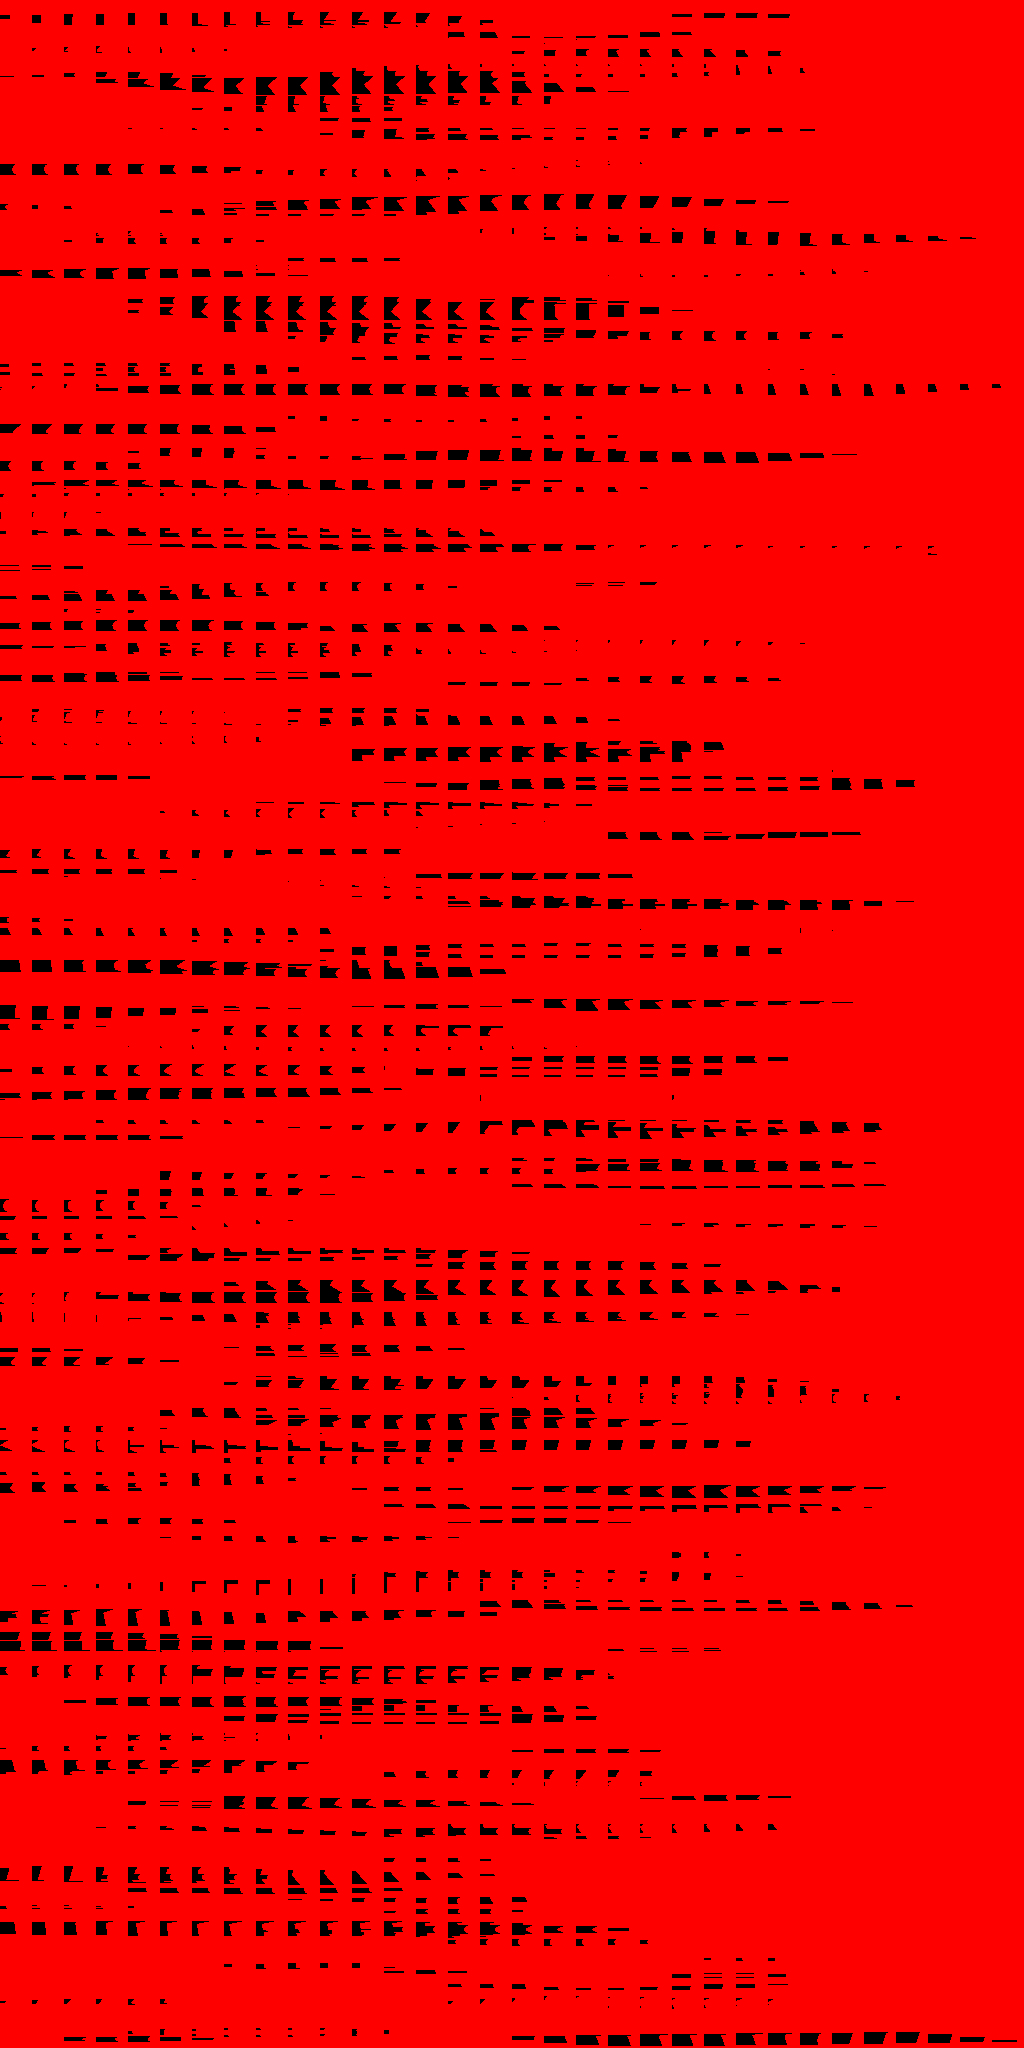
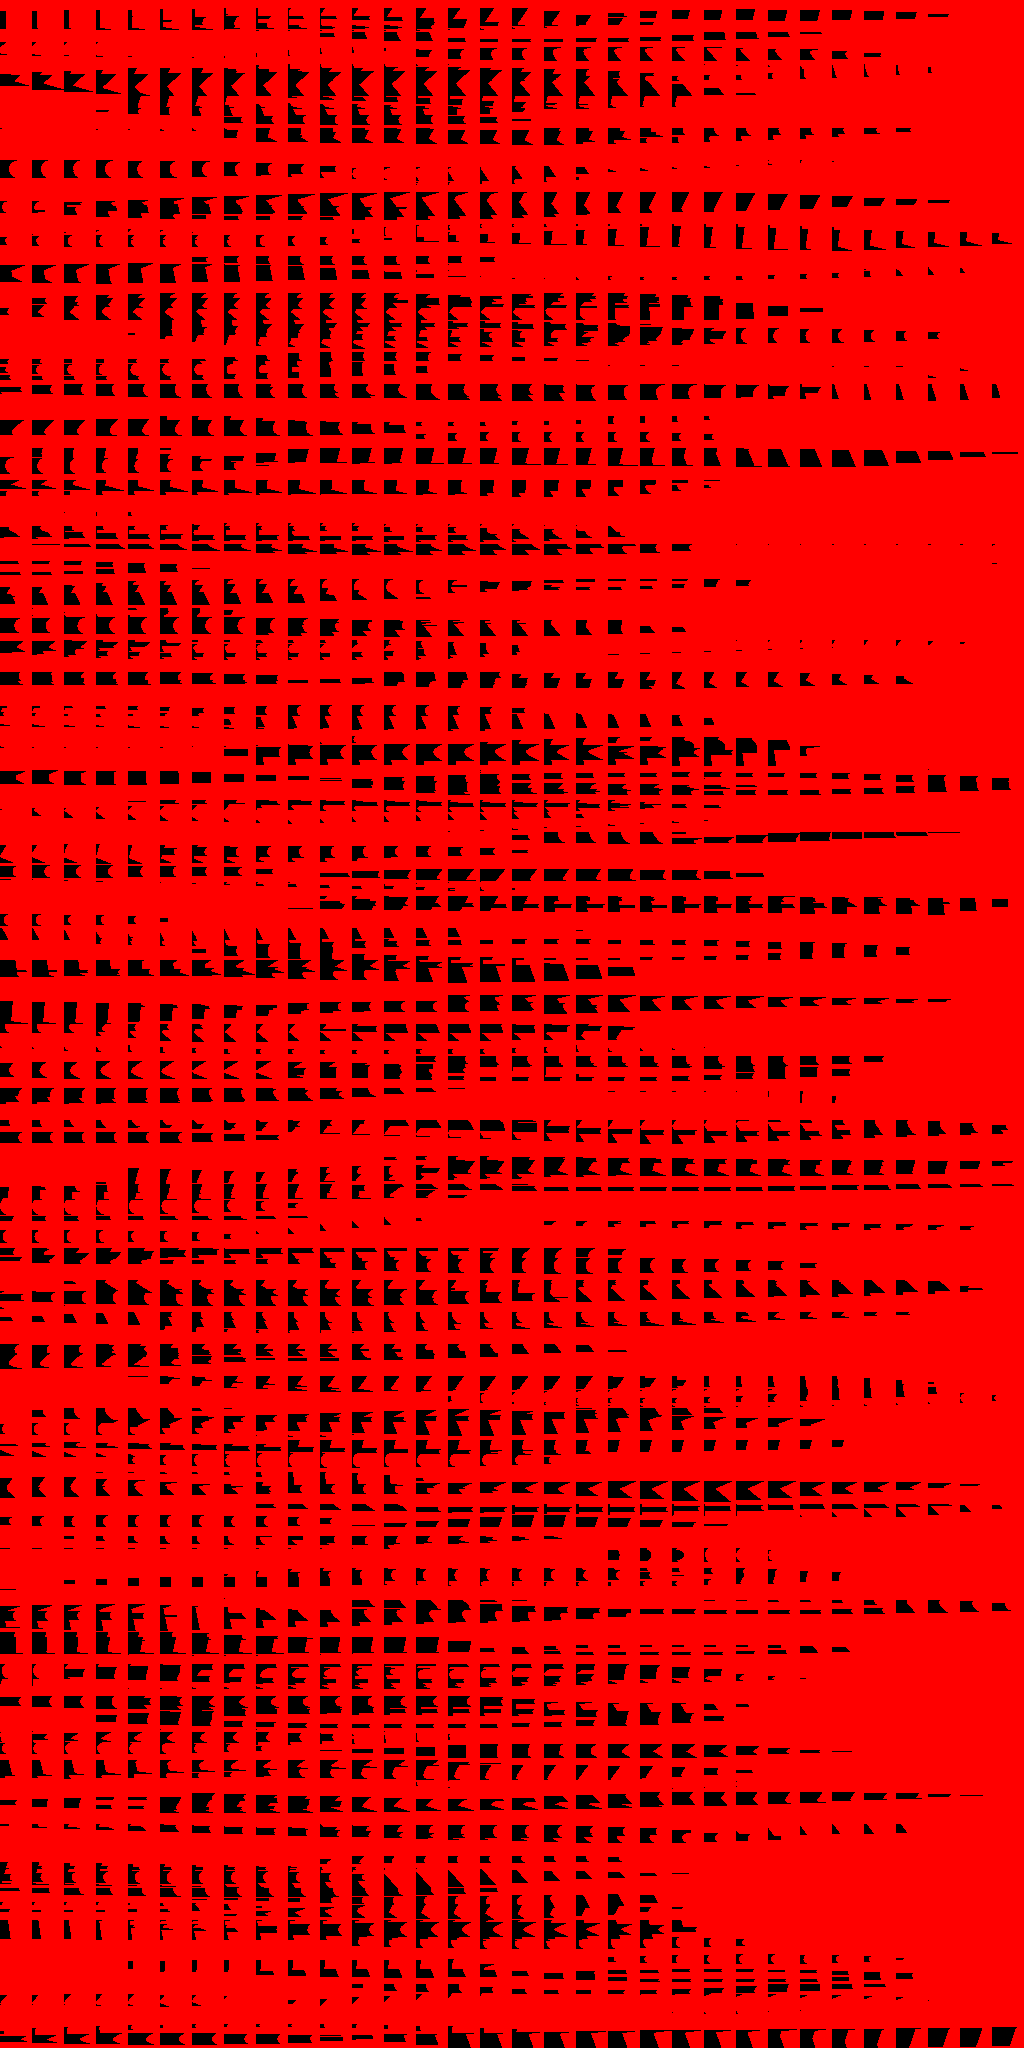
Fixed model. Exports to .exr

Changed region(s): [[0.0, 0.0, 1.0, 1.0], [0.75, 0.2188, 0.9375, 0.25]]

diff --git a/rtdlgi_bk.py b/rtdlgi_bk.py
@@ -4,10 +4,11 @@ import math
 import numpy
 from torch.autograd import Variable
 
+
 GI_RESOLUTION = 32
 RAYS_PER_AXIS = 16
-TRAINING_SAMPLES = 1 # 64
-TRAINING_BATCHES = 1 # 8
+TRAINING_SAMPLES = 64 # 64
+TRAINING_BATCHES = 8 # 1
 
 # training data
 inputs = torch.zeros(RAYS_PER_AXIS**3, TRAINING_SAMPLES*TRAINING_BATCHES).half()
@@ -39,8 +40,8 @@ def inpInit(i, j):
 
 inputsXYZ = torch.FloatTensor([[inpInit(i, j) for i in range(GI_RESOLUTION ** 3)] for j in range(3)]).half()
 
-neuronsCount_Dist_L0 = 1024
-neuronsCount_GI = 64
+neuronsCount_Dist_L0 = 128
+neuronsCount_GI = 48
 
 # Train NN weights
 # neuronsCount * 3
@@ -49,21 +50,22 @@ neuronsCount_GI = 64
 # neuronsCount * 1
 # 1 * neuronsCount
 # 1 * 1
+reducer = 4
 
-neuronsCount_Dist_w1 = neuronsCount_GI * 3
-neuronsCount_Dist_b1 = neuronsCount_GI
-neuronsCount_Dist_w2 = neuronsCount_GI * 32
-neuronsCount_Dist_b2 = neuronsCount_GI
-neuronsCount_Dist_w3 = neuronsCount_GI
+neuronsCount_Dist_w1 = neuronsCount_GI // reducer * 3
+neuronsCount_Dist_b1 = neuronsCount_GI // reducer
+neuronsCount_Dist_w2 = neuronsCount_GI // reducer * neuronsCount_GI // reducer
+neuronsCount_Dist_b2 = neuronsCount_GI // reducer
+neuronsCount_Dist_w3 = neuronsCount_GI // reducer
 neuronsCount_Dist_b3 = 1
 
-alpha = 0.02
-beta1 = 0.02
-beta2 = 0.0001
-tanhMul = 1.3
+alpha = 0.03
+beta1 = alpha
+beta2 = 0.001
+tanhMul = 1.05
 acc = 0.1
-rng = 0.1
-steps = 5000
+rng = 1.0
+steps = 20000
 pr = 10
 
 data_x_Dist = Variable(torch.HalfTensor(inputs).cuda())
@@ -72,31 +74,43 @@ data_y_GI = Variable(outputs.cuda())
 
 torch.manual_seed(4221)
 
-WEIGHTS1 = Variable(torch.HalfTensor(neuronsCount_Dist_L0, RAYS_PER_AXIS**3).cuda().uniform_(-rng,rng), requires_grad=True)
-BIAS1 = Variable(torch.HalfTensor(neuronsCount_Dist_L0, 1).cuda().uniform_(-rng,rng), requires_grad=True)
+WEIGHTS1 = Variable(torch.HalfTensor(neuronsCount_Dist_L0, RAYS_PER_AXIS**3).cuda().uniform_(-rng, rng), requires_grad=True)
+BIAS1 = Variable(torch.HalfTensor(neuronsCount_Dist_L0, 1).cuda().uniform_(-rng, rng), requires_grad=True)
 
-WEIGHTS2_w1 = Variable(torch.HalfTensor(neuronsCount_GI * 3, neuronsCount_Dist_L0).cuda().uniform_(-rng,rng), requires_grad=True)
-BIAS2_w1 = Variable(torch.HalfTensor(neuronsCount_GI * 3, 1).cuda().uniform_(-rng,rng), requires_grad=True)
+WEIGHTS2_w1 = Variable(torch.HalfTensor(neuronsCount_Dist_w1, neuronsCount_Dist_L0).cuda().uniform_(-rng, rng), requires_grad=True)
+BIAS2_w1 = Variable(torch.HalfTensor(neuronsCount_Dist_w1, 1).cuda().uniform_(-rng, rng), requires_grad=True)
+WEIGHTS3_w1 = Variable(torch.HalfTensor(neuronsCount_GI * 3, neuronsCount_Dist_w1).cuda().uniform_(-rng, rng), requires_grad=True)
+BIAS3_w1 = Variable(torch.HalfTensor(neuronsCount_GI * 3, 1).cuda().uniform_(-rng, rng), requires_grad=True)
 
-WEIGHTS2_b1 = Variable(torch.HalfTensor(neuronsCount_GI * 1, neuronsCount_Dist_L0).cuda().uniform_(-rng,rng), requires_grad=True)
-BIAS2_b1 = Variable(torch.HalfTensor(neuronsCount_GI * 1, 1).cuda().uniform_(-rng,rng), requires_grad=True)
+WEIGHTS2_b1 = Variable(torch.HalfTensor(neuronsCount_Dist_b1, neuronsCount_Dist_L0).cuda().uniform_(-rng, rng), requires_grad=True)
+BIAS2_b1 = Variable(torch.HalfTensor(neuronsCount_Dist_b1, 1).cuda().uniform_(-rng, rng), requires_grad=True)
+WEIGHTS3_b1 = Variable(torch.HalfTensor(neuronsCount_GI * 1, neuronsCount_Dist_b1).cuda().uniform_(-rng, rng), requires_grad=True)
+BIAS3_b1 = Variable(torch.HalfTensor(neuronsCount_GI * 1, 1).cuda().uniform_(-rng, rng), requires_grad=True)
 
-WEIGHTS2_w2 = Variable(torch.HalfTensor(neuronsCount_GI * neuronsCount_GI, neuronsCount_Dist_L0).cuda().uniform_(-rng,rng), requires_grad=True)
-BIAS2_w2 = Variable(torch.HalfTensor(neuronsCount_GI * neuronsCount_GI, 1).cuda().uniform_(-rng,rng), requires_grad=True)
+WEIGHTS2_w2 = Variable(torch.HalfTensor(neuronsCount_Dist_w2, neuronsCount_Dist_L0).cuda().uniform_(-rng, rng), requires_grad=True)
+BIAS2_w2 = Variable(torch.HalfTensor(neuronsCount_Dist_w2, 1).cuda().uniform_(-rng, rng), requires_grad=True)
+WEIGHTS3_w2 = Variable(torch.HalfTensor(neuronsCount_GI * neuronsCount_GI, neuronsCount_Dist_w2).cuda().uniform_(-rng, rng), requires_grad=True)
+BIAS3_w2 = Variable(torch.HalfTensor(neuronsCount_GI * neuronsCount_GI, 1).cuda().uniform_(-rng, rng), requires_grad=True)
 
-WEIGHTS2_b2 = Variable(torch.HalfTensor(neuronsCount_GI * 1, neuronsCount_Dist_L0).cuda().uniform_(-rng,rng), requires_grad=True)
-BIAS2_b2 = Variable(torch.HalfTensor(neuronsCount_GI * 1, 1).cuda().uniform_(-rng,rng), requires_grad=True)
+WEIGHTS2_b2 = Variable(torch.HalfTensor(neuronsCount_Dist_b2, neuronsCount_Dist_L0).cuda().uniform_(-rng, rng), requires_grad=True)
+BIAS2_b2 = Variable(torch.HalfTensor(neuronsCount_Dist_b2, 1).cuda().uniform_(-rng, rng), requires_grad=True)
+WEIGHTS3_b2 = Variable(torch.HalfTensor(neuronsCount_GI * 1, neuronsCount_Dist_b2).cuda().uniform_(-rng, rng), requires_grad=True)
+BIAS3_b2 = Variable(torch.HalfTensor(neuronsCount_GI * 1, 1).cuda().uniform_(-rng, rng), requires_grad=True)
 
-WEIGHTS2_w3 = Variable(torch.HalfTensor(1 * neuronsCount_GI, neuronsCount_Dist_L0).cuda().uniform_(-rng,rng), requires_grad=True)
-BIAS2_w3 = Variable(torch.HalfTensor(1 * neuronsCount_GI, 1).cuda().uniform_(-rng,rng), requires_grad=True)
+WEIGHTS2_w3 = Variable(torch.HalfTensor(neuronsCount_Dist_w3, neuronsCount_Dist_L0).cuda().uniform_(-rng, rng), requires_grad=True)
+BIAS2_w3 = Variable(torch.HalfTensor(neuronsCount_Dist_w3, 1).cuda().uniform_(-rng, rng), requires_grad=True)
+WEIGHTS3_w3 = Variable(torch.HalfTensor(1 * neuronsCount_GI, neuronsCount_Dist_w3).cuda().uniform_(-rng, rng), requires_grad=True)
+BIAS3_w3 = Variable(torch.HalfTensor(1 * neuronsCount_GI, 1).cuda().uniform_(-rng, rng), requires_grad=True)
 
-WEIGHTS2_b3 = Variable(torch.HalfTensor(1, neuronsCount_Dist_L0).cuda().uniform_(-rng,rng), requires_grad=True)
-BIAS2_b3 = Variable(torch.HalfTensor(1, 1).cuda().uniform_(-rng,rng), requires_grad=True)
+WEIGHTS2_b3 = Variable(torch.HalfTensor(neuronsCount_Dist_b3, neuronsCount_Dist_L0).cuda().uniform_(-rng, rng), requires_grad=True)
+BIAS2_b3 = Variable(torch.HalfTensor(neuronsCount_Dist_b3, 1).cuda().uniform_(-rng, rng), requires_grad=True)
+WEIGHTS3_b3 = Variable(torch.HalfTensor(1, neuronsCount_Dist_b3).cuda().uniform_(-rng, rng), requires_grad=True)
+BIAS3_b3 = Variable(torch.HalfTensor(1, 1).cuda().uniform_(-rng, rng), requires_grad=True)
 
 
 def fc(weights, bias, inp):
     h1 = weights @ inp + bias
-    a1 = torch.tanh_(h1)
+    a1 = torch.tanh(h1)
 
     return a1
 
@@ -119,19 +133,20 @@ def Forward(data_inp, w1, b1, w2, b2, w3, b3):
     return y
 
 
-def Forward_FCL(data_inp, w1, b1, w2, b2):
+def Forward_FCL(data_inp, w1, b1, w2, b2, w3, b3):
     n1 = fc(w1, b1, data_inp)
-    y = fcL(w2, b2, n1)
+    n2 = fc(w2, b2, n1)
+    y = fcL(w3, b3, n2)
 
     return y
 
 def Forward_N2(dat_x):
-    w1_1 = Forward_FCL(dat_x.resize(RAYS_PER_AXIS**3, 1), WEIGHTS1, BIAS1, WEIGHTS2_w1, BIAS2_w1).resize(neuronsCount_GI, 3)
-    b1_1 = Forward_FCL(dat_x.resize(RAYS_PER_AXIS**3, 1), WEIGHTS1, BIAS1, WEIGHTS2_b1, BIAS2_b1).resize(neuronsCount_GI, 1)
-    w2_1 = Forward_FCL(dat_x.resize(RAYS_PER_AXIS**3, 1), WEIGHTS1, BIAS1, WEIGHTS2_w2, BIAS2_w2).resize(neuronsCount_GI, neuronsCount_GI)
-    b2_1 = Forward_FCL(dat_x.resize(RAYS_PER_AXIS**3, 1), WEIGHTS1, BIAS1, WEIGHTS2_b2, BIAS2_b2).resize(neuronsCount_GI, 1)
-    w3_1 = Forward_FCL(dat_x.resize(RAYS_PER_AXIS**3, 1), WEIGHTS1, BIAS1, WEIGHTS2_w3, BIAS2_w3).resize(1, neuronsCount_GI)
-    b3_1 = Forward_FCL(dat_x.resize(RAYS_PER_AXIS**3, 1), WEIGHTS1, BIAS1, WEIGHTS2_b3, BIAS2_b3).resize(1, 1)
+    w1_1 = Forward_FCL(dat_x.resize(RAYS_PER_AXIS**3, 1), WEIGHTS1, BIAS1, WEIGHTS2_w1, BIAS2_w1, WEIGHTS3_w1, BIAS3_w1).resize(neuronsCount_GI, 3)
+    b1_1 = Forward_FCL(dat_x.resize(RAYS_PER_AXIS**3, 1), WEIGHTS1, BIAS1, WEIGHTS2_b1, BIAS2_b1, WEIGHTS3_b1, BIAS3_b1).resize(neuronsCount_GI, 1)
+    w2_1 = Forward_FCL(dat_x.resize(RAYS_PER_AXIS**3, 1), WEIGHTS1, BIAS1, WEIGHTS2_w2, BIAS2_w2, WEIGHTS3_w2, BIAS3_w2).resize(neuronsCount_GI, neuronsCount_GI)
+    b2_1 = Forward_FCL(dat_x.resize(RAYS_PER_AXIS**3, 1), WEIGHTS1, BIAS1, WEIGHTS2_b2, BIAS2_b2, WEIGHTS3_b2, BIAS3_b2).resize(neuronsCount_GI, 1)
+    w3_1 = Forward_FCL(dat_x.resize(RAYS_PER_AXIS**3, 1), WEIGHTS1, BIAS1, WEIGHTS2_w3, BIAS2_w3, WEIGHTS3_w3, BIAS3_w3).resize(1, neuronsCount_GI)
+    b3_1 = Forward_FCL(dat_x.resize(RAYS_PER_AXIS**3, 1), WEIGHTS1, BIAS1, WEIGHTS2_b3, BIAS2_b3, WEIGHTS3_b3, BIAS3_b3).resize(1, 1)
 
     y = Forward(data_x_XYZ, w1_1, b1_1, w2_1, b2_1, w3_1, b3_1)
 
@@ -149,21 +164,33 @@ def Train(p, ts):
 
     Grad(WEIGHTS2_w1)
     Grad(BIAS2_w1)
+    Grad(WEIGHTS3_w1)
+    Grad(BIAS3_w1)
 
     Grad(WEIGHTS2_b1)
     Grad(BIAS2_b1)
+    Grad(WEIGHTS3_b1)
+    Grad(BIAS3_b1)
 
     Grad(WEIGHTS2_w2)
     Grad(BIAS2_w2)
+    Grad(WEIGHTS3_w2)
+    Grad(BIAS3_w2)
 
     Grad(WEIGHTS2_b2)
     Grad(BIAS2_b2)
+    Grad(WEIGHTS3_b2)
+    Grad(BIAS3_b2)
 
     Grad(WEIGHTS2_w3)
     Grad(BIAS2_w3)
+    Grad(WEIGHTS3_w3)
+    Grad(BIAS3_w3)
 
     Grad(WEIGHTS2_b3)
     Grad(BIAS2_b3)
+    Grad(WEIGHTS3_b3)
+    Grad(BIAS3_b3)
     return loss
 
 
@@ -195,34 +222,50 @@ def DrawRes(res, name):
     cv2.imwrite(name, t1 * 255, [cv2.IMWRITE_PAM_FORMAT_GRAYSCALE])
     #cv2.imshow(name, t1)
 
+
 def Save(tens, name):
     torch.save(tens, name + ".pt")
     mat = tens.detach().cpu().float().numpy()
     cv2.imwrite(name + ".exr", mat, [cv2.IMWRITE_EXR_TYPE, cv2.IMWRITE_EXR_TYPE_FLOAT])
 
-Save(WEIGHTS1, "W1")
-Save(BIAS1, "B1")
+Save(WEIGHTS1, "W1.pt")
+Save(BIAS1, "B1.pt")
 
-Save(WEIGHTS2_w1, "W2w1")
-Save(BIAS2_w1, "B2w1")
+Save(WEIGHTS2_w1, "W2w1.pt")
+Save(BIAS2_w1, "B2w1.pt")
+Save(WEIGHTS3_w1, "W3w1.pt")
+Save(BIAS3_w1, "B3w1.pt")
 
-Save(WEIGHTS2_b1, "W2b1")
-Save(BIAS2_b1, "B2b1")
+Save(WEIGHTS2_b1, "W2b1.pt")
+Save(BIAS2_b1, "B2b1.pt")
+Save(WEIGHTS3_b1, "W3b1.pt")
+Save(BIAS3_b1, "B3b1.pt")
 
-Save(WEIGHTS2_w2, "W2w2")
-Save(BIAS2_w2, "B2w2")
+Save(WEIGHTS2_w2, "W2w2.pt")
+Save(BIAS2_w2, "B2w2.pt")
+Save(WEIGHTS3_w2, "W3w2.pt")
+Save(BIAS3_w2, "B3w2.pt")
 
-Save(WEIGHTS2_b2, "W2b2")
-Save(BIAS2_b2, "B2b2")
+Save(WEIGHTS2_b2, "W2b2.pt")
+Save(BIAS2_b2, "B2b2.pt")
+Save(WEIGHTS3_b2, "W3b2.pt")
+Save(BIAS3_b2, "B3b2.pt")
 
-Save(WEIGHTS2_w3, "W2w3")
-Save(BIAS2_w3, "B2w3")
+Save(WEIGHTS2_w3, "W2w3.pt")
+Save(BIAS2_w3, "B2w3.pt")
+Save(WEIGHTS3_w3, "W3w3.pt")
+Save(BIAS3_w3, "B3w3.pt")
 
-Save(WEIGHTS2_b3, "W2b3")
-Save(BIAS2_b3, "B2b3")
+Save(WEIGHTS2_b3, "W2b3.pt")
+Save(BIAS2_b3, "B2b3.pt")
+Save(WEIGHTS3_b3, "W3b3.pt")
+Save(BIAS3_b3, "B3b3.pt")
 
 for i in range(TRAINING_SAMPLES*TRAINING_BATCHES):
-    m = torch.clamp(Forward_N2(data_x_Dist[:,i]), 0, 1)
+    m = torch.clamp(Forward_N2(data_x_Dist[:,i]) * 1024, -1, 1) * 0.5 + 0.5
     DrawRes(m, "m"+str(i)+".png")
+
+
+
 
 

diff --git a/model_save.py b/model_save.py
@@ -1,5 +1,9 @@
 import cv2
+from torch.autograd import Variable
+import torch
 
-a = cv2.imread("W1.exr", cv2.IMREAD_UNCHANGED)
+tens = Variable(torch.HalfTensor(8, 8).cuda().uniform_(-0.1, 0.1), requires_grad=True)
 
-print(a)
+mat = tens.detach().cpu().float().numpy()
+cv2.imwrite("sas.exr", mat, [cv2.IMWRITE_EXR_TYPE, cv2.IMWRITE_EXR_TYPE_FLOAT])
+
